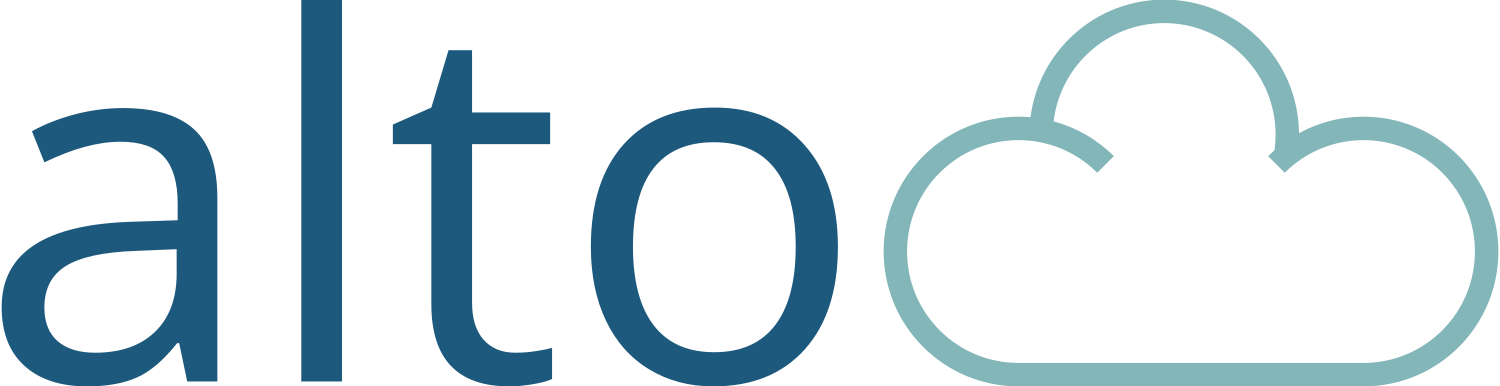
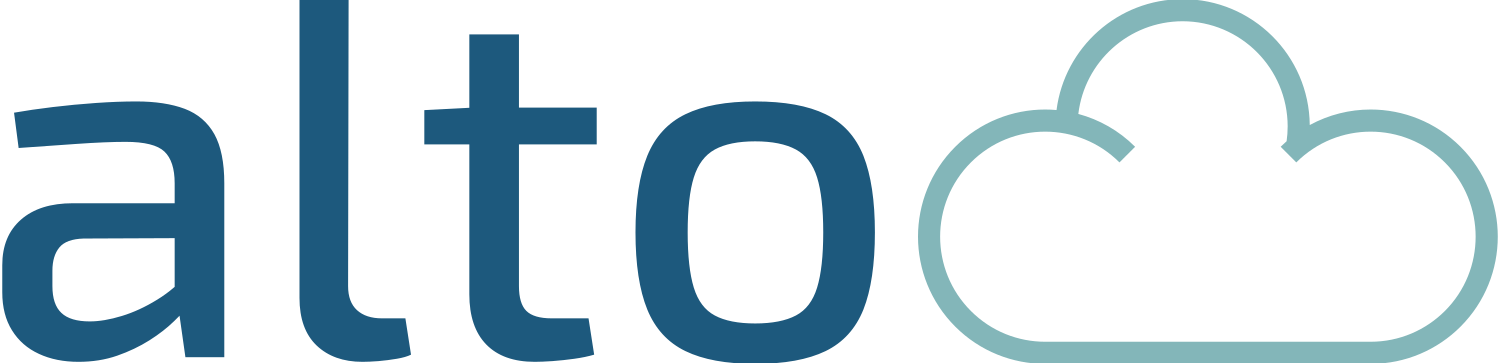
alto

diff --git a/README.md b/README.md
@@ -1,5 +1,5 @@
 <p align="center">
-  <img src="https://github.com/runprism/nomad/blob/new-logo/.github/waldo.png" alt="Nomad logo" style="width: 65%"/>
+  <img src="https://github.com/runprism/nomad/blob/new-logo/.github/alto.png" alt="Alto logo" style="width: 65%"/>
 </p>
 
 <div align="center">
